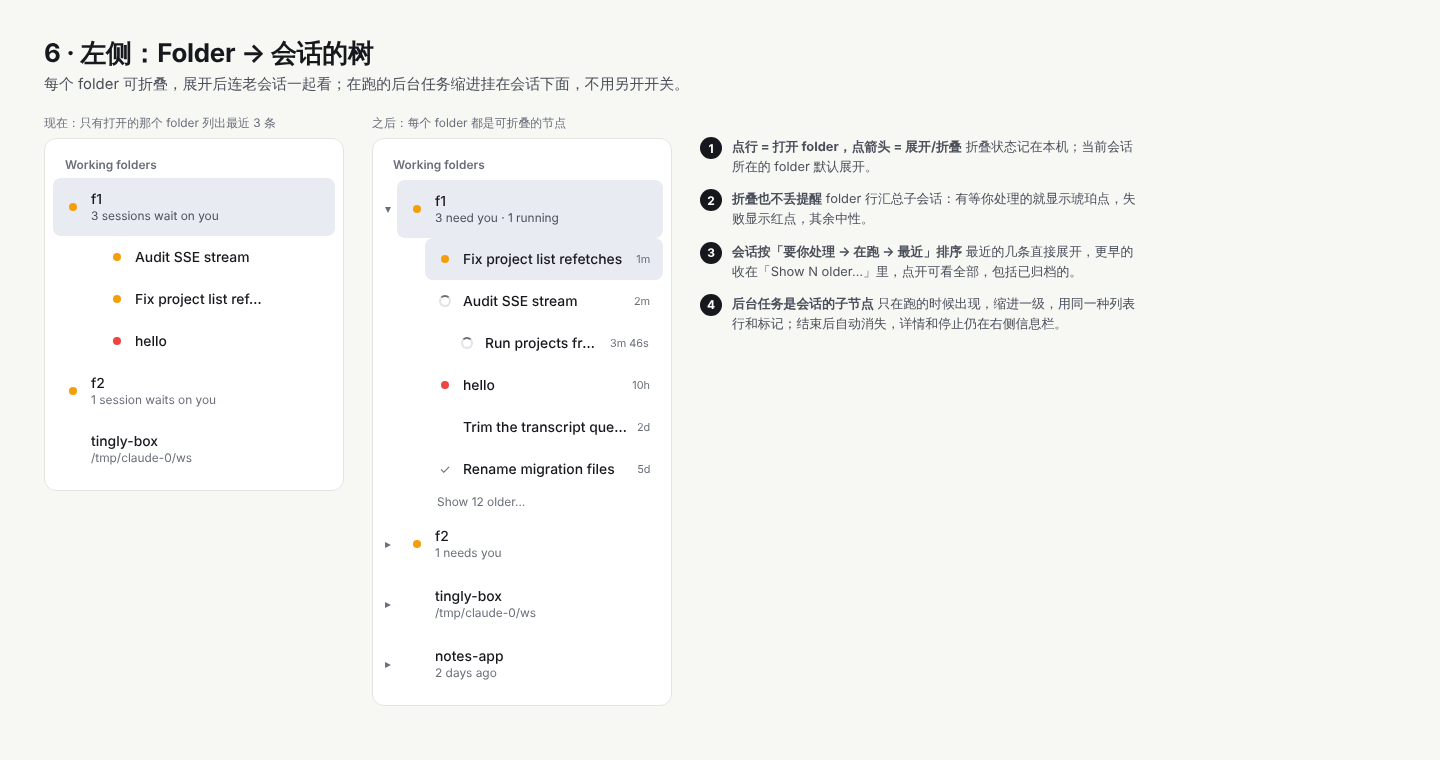
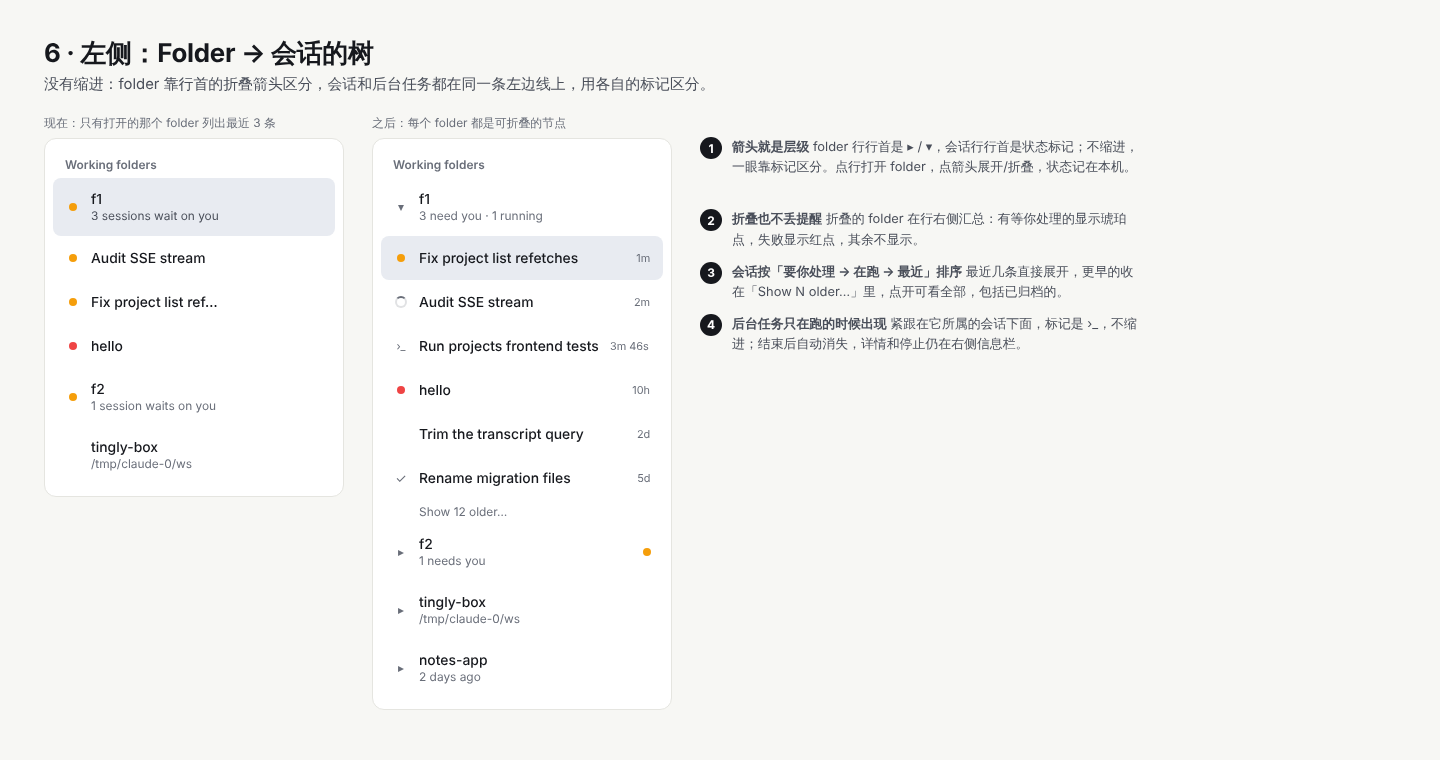
docs(design): folder tree without indentation
Claude-Session: https://claude.ai/code/session_01PUxgomMoBwJ8yJqx3ZrPaA

diff --git a/.design/projects-visual/G-FolderTree.dc.html b/.design/projects-visual/G-FolderTree.dc.html
@@ -14,7 +14,7 @@ body{margin:0;font-family:Inter,system-ui,sans-serif;color:#16181d;-webkit-font-
 </style>
 </helmet>
 <div style="position:relative;width:1440px;height:760px;box-sizing:border-box;background:#f7f7f4;overflow:hidden;padding:36px 44px;display:flex;flex-direction:column;gap:20px">
-<div><div style="font-size:26px;font-weight:700;letter-spacing:-0.3px">6 · 左侧：Folder → 会话的树</div><div style="font-size:15px;color:#4a4f5a;margin-top:4px">每个 folder 可折叠，展开后连老会话一起看；在跑的后台任务缩进挂在会话下面，不用另开开关。</div></div><div style="display:flex;gap:28px;align-items:flex-start;flex:1"><div><div style="font-size:12px;color:#696e79;margin-bottom:6px">现在：只有打开的那个 folder 列出最近 3 条</div><div style="width:300px;flex:none;background:#fff;border:1px solid #e5e5e0;border-radius:12px;padding:12px 8px;box-sizing:border-box"><div style="padding:6px 12px;font-size:12px;font-weight:600;color:#696e79">Working folders</div><div style="display:flex;align-items:center;gap:10px;min-height:46px;padding:6px 12px;border-radius:8px;background:#e8ebf1;"><div style="width:16px;display:flex;justify-content:center;flex:none"><span style="display:inline-block;width:8px;height:8px;border-radius:50%;background:#f59e0b;flex:none"></span></div><div style="flex:1;min-width:0"><div style="font-size:14px;font-weight:500;color:#16181d;white-space:nowrap;overflow:hidden;text-overflow:ellipsis">f1</div><div style="font-size:12px;color:#4a4f5a;white-space:nowrap;overflow:hidden;text-overflow:ellipsis">3 sessions wait on you</div></div><div style="font-size:11.5px;color:#696e79;flex:none"></div></div><div style="margin-left:44px"><div style="display:flex;align-items:center;gap:10px;min-height:30px;padding:6px 12px;border-radius:8px;"><div style="width:16px;display:flex;justify-content:center;flex:none"><span style="display:inline-block;width:8px;height:8px;border-radius:50%;background:#f59e0b;flex:none"></span></div><div style="flex:1;min-width:0"><div style="font-size:14px;font-weight:500;color:#16181d;white-space:nowrap;overflow:hidden;text-overflow:ellipsis">Audit SSE stream</div></div><div style="font-size:11.5px;color:#696e79;flex:none"></div></div></div><div style="margin-left:44px"><div style="display:flex;align-items:center;gap:10px;min-height:30px;padding:6px 12px;border-radius:8px;"><div style="width:16px;display:flex;justify-content:center;flex:none"><span style="display:inline-block;width:8px;height:8px;border-radius:50%;background:#f59e0b;flex:none"></span></div><div style="flex:1;min-width:0"><div style="font-size:14px;font-weight:500;color:#16181d;white-space:nowrap;overflow:hidden;text-overflow:ellipsis">Fix project list ref…</div></div><div style="font-size:11.5px;color:#696e79;flex:none"></div></div></div><div style="margin-left:44px"><div style="display:flex;align-items:center;gap:10px;min-height:30px;padding:6px 12px;border-radius:8px;"><div style="width:16px;display:flex;justify-content:center;flex:none"><span style="display:inline-block;width:8px;height:8px;border-radius:50%;background:#ef4444;flex:none"></span></div><div style="flex:1;min-width:0"><div style="font-size:14px;font-weight:500;color:#16181d;white-space:nowrap;overflow:hidden;text-overflow:ellipsis">hello</div></div><div style="font-size:11.5px;color:#696e79;flex:none"></div></div></div><div style="display:flex;align-items:center;gap:10px;min-height:46px;padding:6px 12px;border-radius:8px;"><div style="width:16px;display:flex;justify-content:center;flex:none"><span style="display:inline-block;width:8px;height:8px;border-radius:50%;background:#f59e0b;flex:none"></span></div><div style="flex:1;min-width:0"><div style="font-size:14px;font-weight:500;color:#16181d;white-space:nowrap;overflow:hidden;text-overflow:ellipsis">f2</div><div style="font-size:12px;color:#696e79;white-space:nowrap;overflow:hidden;text-overflow:ellipsis">1 session waits on you</div></div><div style="font-size:11.5px;color:#696e79;flex:none"></div></div><div style="display:flex;align-items:center;gap:10px;min-height:46px;padding:6px 12px;border-radius:8px;"><div style="width:16px;display:flex;justify-content:center;flex:none"></div><div style="flex:1;min-width:0"><div style="font-size:14px;font-weight:500;color:#16181d;white-space:nowrap;overflow:hidden;text-overflow:ellipsis">tingly-box</div><div style="font-size:12px;color:#696e79;white-space:nowrap;overflow:hidden;text-overflow:ellipsis">/tmp/claude-0/ws</div></div><div style="font-size:11.5px;color:#696e79;flex:none"></div></div></div></div><div><div style="font-size:12px;color:#696e79;margin-bottom:6px">之后：每个 folder 都是可折叠的节点</div><div style="width:300px;flex:none;background:#fff;border:1px solid #e5e5e0;border-radius:12px;padding:12px 8px;box-sizing:border-box"><div style="padding:6px 12px;font-size:12px;font-weight:600;color:#696e79">Working folders</div><div style="display:flex;align-items:center;gap:2px;margin-top:2px"><span style="display:inline-block;width:14px;text-align:center;font-size:12px;line-height:1;color:#696e79;flex:none">▾</span><div style="flex:1"><div style="display:flex;align-items:center;gap:10px;min-height:46px;padding:6px 12px;border-radius:8px;background:#e8ebf1;"><div style="width:16px;display:flex;justify-content:center;flex:none"><span style="display:inline-block;width:8px;height:8px;border-radius:50%;background:#f59e0b;flex:none"></span></div><div style="flex:1;min-width:0"><div style="font-size:14px;font-weight:500;color:#16181d;white-space:nowrap;overflow:hidden;text-overflow:ellipsis">f1</div><div style="font-size:12px;color:#4a4f5a;white-space:nowrap;overflow:hidden;text-overflow:ellipsis">3 need you · 1 running</div></div><div style="font-size:11.5px;color:#696e79;flex:none"></div></div></div></div><div style="margin-left:44px"><div style="display:flex;align-items:center;gap:10px;min-height:30px;padding:6px 12px;border-radius:8px;background:#e8ebf1;"><div style="width:16px;display:flex;justify-content:center;flex:none"><span style="display:inline-block;width:8px;height:8px;border-radius:50%;background:#f59e0b;flex:none"></span></div><div style="flex:1;min-width:0"><div style="font-size:14px;font-weight:500;color:#16181d;white-space:nowrap;overflow:hidden;text-overflow:ellipsis">Fix project list refetches</div></div><div style="font-size:11.5px;color:#696e79;flex:none">1m</div></div></div><div style="margin-left:44px"><div style="display:flex;align-items:center;gap:10px;min-height:30px;padding:6px 12px;border-radius:8px;"><div style="width:16px;display:flex;justify-content:center;flex:none"><span style="display:inline-block;width:12px;height:12px;border-radius:50%;border:2px solid #696e7933;border-top-color:#696e79;box-sizing:border-box;flex:none"></span></div><div style="flex:1;min-width:0"><div style="font-size:14px;font-weight:500;color:#16181d;white-space:nowrap;overflow:hidden;text-overflow:ellipsis">Audit SSE stream</div></div><div style="font-size:11.5px;color:#696e79;flex:none">2m</div></div></div><div style="margin-left:66px"><div style="display:flex;align-items:center;gap:10px;min-height:30px;padding:6px 12px;border-radius:8px;"><div style="width:16px;display:flex;justify-content:center;flex:none"><span style="display:inline-block;width:12px;height:12px;border-radius:50%;border:2px solid #696e7933;border-top-color:#696e79;box-sizing:border-box;flex:none"></span></div><div style="flex:1;min-width:0"><div style="font-size:14px;font-weight:500;color:#16181d;white-space:nowrap;overflow:hidden;text-overflow:ellipsis">Run projects frontend tests</div></div><div style="font-size:11.5px;color:#696e79;flex:none">3m 46s</div></div></div><div style="margin-left:44px"><div style="display:flex;align-items:center;gap:10px;min-height:30px;padding:6px 12px;border-radius:8px;"><div style="width:16px;display:flex;justify-content:center;flex:none"><span style="display:inline-block;width:8px;height:8px;border-radius:50%;background:#ef4444;flex:none"></span></div><div style="flex:1;min-width:0"><div style="font-size:14px;font-weight:500;color:#16181d;white-space:nowrap;overflow:hidden;text-overflow:ellipsis">hello</div></div><div style="font-size:11.5px;color:#696e79;flex:none">10h</div></div></div><div style="margin-left:44px"><div style="display:flex;align-items:center;gap:10px;min-height:30px;padding:6px 12px;border-radius:8px;"><div style="width:16px;display:flex;justify-content:center;flex:none"></div><div style="flex:1;min-width:0"><div style="font-size:14px;font-weight:500;color:#16181d;white-space:nowrap;overflow:hidden;text-overflow:ellipsis">Trim the transcript query</div></div><div style="font-size:11.5px;color:#696e79;flex:none">2d</div></div></div><div style="margin-left:44px"><div style="display:flex;align-items:center;gap:10px;min-height:30px;padding:6px 12px;border-radius:8px;"><div style="width:16px;display:flex;justify-content:center;flex:none"><span style="display:inline-block;width:15px;text-align:center;font-size:13px;line-height:1;color:#696e79;flex:none">✓</span></div><div style="flex:1;min-width:0"><div style="font-size:14px;font-weight:500;color:#16181d;white-space:nowrap;overflow:hidden;text-overflow:ellipsis">Rename migration files</div></div><div style="font-size:11.5px;color:#696e79;flex:none">5d</div></div></div><div style="margin-left:44px;padding:4px 12px;font-size:12px;color:#696e79">Show 12 older…</div><div style="display:flex;align-items:center;gap:2px;margin-top:2px"><span style="display:inline-block;width:14px;text-align:center;font-size:12px;line-height:1;color:#696e79;flex:none">▸</span><div style="flex:1"><div style="display:flex;align-items:center;gap:10px;min-height:46px;padding:6px 12px;border-radius:8px;"><div style="width:16px;display:flex;justify-content:center;flex:none"><span style="display:inline-block;width:8px;height:8px;border-radius:50%;background:#f59e0b;flex:none"></span></div><div style="flex:1;min-width:0"><div style="font-size:14px;font-weight:500;color:#16181d;white-space:nowrap;overflow:hidden;text-overflow:ellipsis">f2</div><div style="font-size:12px;color:#696e79;white-space:nowrap;overflow:hidden;text-overflow:ellipsis">1 needs you</div></div><div style="font-size:11.5px;color:#696e79;flex:none"></div></div></div></div><div style="display:flex;align-items:center;gap:2px;margin-top:2px"><span style="display:inline-block;width:14px;text-align:center;font-size:12px;line-height:1;color:#696e79;flex:none">▸</span><div style="flex:1"><div style="display:flex;align-items:center;gap:10px;min-height:46px;padding:6px 12px;border-radius:8px;"><div style="width:16px;display:flex;justify-content:center;flex:none"></div><div style="flex:1;min-width:0"><div style="font-size:14px;font-weight:500;color:#16181d;white-space:nowrap;overflow:hidden;text-overflow:ellipsis">tingly-box</div><div style="font-size:12px;color:#696e79;white-space:nowrap;overflow:hidden;text-overflow:ellipsis">/tmp/claude-0/ws</div></div><div style="font-size:11.5px;color:#696e79;flex:none"></div></div></div></div><div style="display:flex;align-items:center;gap:2px;margin-top:2px"><span style="display:inline-block;width:14px;text-align:center;font-size:12px;line-height:1;color:#696e79;flex:none">▸</span><div style="flex:1"><div style="display:flex;align-items:center;gap:10px;min-height:46px;padding:6px 12px;border-radius:8px;"><div style="width:16px;display:flex;justify-content:center;flex:none"></div><div style="flex:1;min-width:0"><div style="font-size:14px;font-weight:500;color:#16181d;white-space:nowrap;overflow:hidden;text-overflow:ellipsis">notes-app</div><div style="font-size:12px;color:#696e79;white-space:nowrap;overflow:hidden;text-overflow:ellipsis">2 days ago</div></div><div style="font-size:11.5px;color:#696e79;flex:none"></div></div></div></div></div></div><div style="flex:1;max-width:440px;padding-top:22px"><div style="display:flex;gap:10px"><div style="width:22px;height:22px;border-radius:50%;background:#16181d;color:#fff;font-size:12px;font-weight:700;display:flex;align-items:center;justify-content:center;flex:none">1</div><div><div style="font-size:13px;line-height:1.55;color:#4a4f5a"><b>点行 = 打开 folder，点箭头 = 展开/折叠</b> 折叠状态记在本机；当前会话所在的 folder 默认展开。</div></div></div><div style="height:12px"></div><div style="display:flex;gap:10px"><div style="width:22px;height:22px;border-radius:50%;background:#16181d;color:#fff;font-size:12px;font-weight:700;display:flex;align-items:center;justify-content:center;flex:none">2</div><div><div style="font-size:13px;line-height:1.55;color:#4a4f5a"><b>折叠也不丢提醒</b> folder 行汇总子会话：有等你处理的就显示琥珀点，失败显示红点，其余中性。</div></div></div><div style="height:12px"></div><div style="display:flex;gap:10px"><div style="width:22px;height:22px;border-radius:50%;background:#16181d;color:#fff;font-size:12px;font-weight:700;display:flex;align-items:center;justify-content:center;flex:none">3</div><div><div style="font-size:13px;line-height:1.55;color:#4a4f5a"><b>会话按「要你处理 → 在跑 → 最近」排序</b> 最近的几条直接展开，更早的收在「Show N older…」里，点开可看全部，包括已归档的。</div></div></div><div style="height:12px"></div><div style="display:flex;gap:10px"><div style="width:22px;height:22px;border-radius:50%;background:#16181d;color:#fff;font-size:12px;font-weight:700;display:flex;align-items:center;justify-content:center;flex:none">4</div><div><div style="font-size:13px;line-height:1.55;color:#4a4f5a"><b>后台任务是会话的子节点</b> 只在跑的时候出现，缩进一级，用同一种列表行和标记；结束后自动消失，详情和停止仍在右侧信息栏。</div></div></div></div></div>
+<div><div style="font-size:26px;font-weight:700;letter-spacing:-0.3px">6 · 左侧：Folder → 会话的树</div><div style="font-size:15px;color:#4a4f5a;margin-top:4px">没有缩进：folder 靠行首的折叠箭头区分，会话和后台任务都在同一条左边线上，用各自的标记区分。</div></div><div style="display:flex;gap:28px;align-items:flex-start;flex:1"><div><div style="font-size:12px;color:#696e79;margin-bottom:6px">现在：只有打开的那个 folder 列出最近 3 条</div><div style="width:300px;flex:none;background:#fff;border:1px solid #e5e5e0;border-radius:12px;padding:12px 8px;box-sizing:border-box"><div style="padding:6px 12px;font-size:12px;font-weight:600;color:#696e79">Working folders</div><div style="display:flex;align-items:center;gap:10px;min-height:46px;padding:6px 12px;border-radius:8px;background:#e8ebf1;"><div style="width:16px;display:flex;justify-content:center;flex:none"><span style="display:inline-block;width:8px;height:8px;border-radius:50%;background:#f59e0b;flex:none"></span></div><div style="flex:1;min-width:0"><div style="font-size:14px;font-weight:500;color:#16181d;white-space:nowrap;overflow:hidden;text-overflow:ellipsis">f1</div><div style="font-size:12px;color:#4a4f5a;white-space:nowrap;overflow:hidden;text-overflow:ellipsis">3 sessions wait on you</div></div><div style="font-size:11.5px;color:#696e79;flex:none"></div></div><div style="display:flex;align-items:center;gap:10px;min-height:32px;padding:6px 12px;border-radius:8px;"><div style="width:16px;display:flex;justify-content:center;flex:none"><span style="display:inline-block;width:8px;height:8px;border-radius:50%;background:#f59e0b;flex:none"></span></div><div style="flex:1;min-width:0"><div style="font-size:14px;font-weight:500;color:#16181d;white-space:nowrap;overflow:hidden;text-overflow:ellipsis">Audit SSE stream</div></div><div style="font-size:11.5px;color:#696e79;flex:none"></div></div><div style="display:flex;align-items:center;gap:10px;min-height:32px;padding:6px 12px;border-radius:8px;"><div style="width:16px;display:flex;justify-content:center;flex:none"><span style="display:inline-block;width:8px;height:8px;border-radius:50%;background:#f59e0b;flex:none"></span></div><div style="flex:1;min-width:0"><div style="font-size:14px;font-weight:500;color:#16181d;white-space:nowrap;overflow:hidden;text-overflow:ellipsis">Fix project list ref…</div></div><div style="font-size:11.5px;color:#696e79;flex:none"></div></div><div style="display:flex;align-items:center;gap:10px;min-height:32px;padding:6px 12px;border-radius:8px;"><div style="width:16px;display:flex;justify-content:center;flex:none"><span style="display:inline-block;width:8px;height:8px;border-radius:50%;background:#ef4444;flex:none"></span></div><div style="flex:1;min-width:0"><div style="font-size:14px;font-weight:500;color:#16181d;white-space:nowrap;overflow:hidden;text-overflow:ellipsis">hello</div></div><div style="font-size:11.5px;color:#696e79;flex:none"></div></div><div style="display:flex;align-items:center;gap:10px;min-height:46px;padding:6px 12px;border-radius:8px;"><div style="width:16px;display:flex;justify-content:center;flex:none"><span style="display:inline-block;width:8px;height:8px;border-radius:50%;background:#f59e0b;flex:none"></span></div><div style="flex:1;min-width:0"><div style="font-size:14px;font-weight:500;color:#16181d;white-space:nowrap;overflow:hidden;text-overflow:ellipsis">f2</div><div style="font-size:12px;color:#696e79;white-space:nowrap;overflow:hidden;text-overflow:ellipsis">1 session waits on you</div></div><div style="font-size:11.5px;color:#696e79;flex:none"></div></div><div style="display:flex;align-items:center;gap:10px;min-height:46px;padding:6px 12px;border-radius:8px;"><div style="width:16px;display:flex;justify-content:center;flex:none"></div><div style="flex:1;min-width:0"><div style="font-size:14px;font-weight:500;color:#16181d;white-space:nowrap;overflow:hidden;text-overflow:ellipsis">tingly-box</div><div style="font-size:12px;color:#696e79;white-space:nowrap;overflow:hidden;text-overflow:ellipsis">/tmp/claude-0/ws</div></div><div style="font-size:11.5px;color:#696e79;flex:none"></div></div></div></div><div><div style="font-size:12px;color:#696e79;margin-bottom:6px">之后：每个 folder 都是可折叠的节点</div><div style="width:300px;flex:none;background:#fff;border:1px solid #e5e5e0;border-radius:12px;padding:12px 8px;box-sizing:border-box"><div style="padding:6px 12px;font-size:12px;font-weight:600;color:#696e79">Working folders</div><div style="display:flex;align-items:center;gap:10px;min-height:46px;padding:6px 12px;border-radius:8px;"><div style="width:16px;display:flex;justify-content:center;flex:none"><span style="display:inline-block;width:14px;text-align:center;font-size:12px;line-height:1;color:#696e79;flex:none">▾</span></div><div style="flex:1;min-width:0"><div style="font-size:14px;font-weight:500;color:#16181d;white-space:nowrap;overflow:hidden;text-overflow:ellipsis">f1</div><div style="font-size:12px;color:#696e79;white-space:nowrap;overflow:hidden;text-overflow:ellipsis">3 need you · 1 running</div></div><div style="font-size:11.5px;color:#696e79;flex:none"></div></div><div style="display:flex;align-items:center;gap:10px;min-height:32px;padding:6px 12px;border-radius:8px;background:#e8ebf1;"><div style="width:16px;display:flex;justify-content:center;flex:none"><span style="display:inline-block;width:8px;height:8px;border-radius:50%;background:#f59e0b;flex:none"></span></div><div style="flex:1;min-width:0"><div style="font-size:14px;font-weight:500;color:#16181d;white-space:nowrap;overflow:hidden;text-overflow:ellipsis">Fix project list refetches</div></div><div style="font-size:11.5px;color:#696e79;flex:none">1m</div></div><div style="display:flex;align-items:center;gap:10px;min-height:32px;padding:6px 12px;border-radius:8px;"><div style="width:16px;display:flex;justify-content:center;flex:none"><span style="display:inline-block;width:12px;height:12px;border-radius:50%;border:2px solid #696e7933;border-top-color:#696e79;box-sizing:border-box;flex:none"></span></div><div style="flex:1;min-width:0"><div style="font-size:14px;font-weight:500;color:#16181d;white-space:nowrap;overflow:hidden;text-overflow:ellipsis">Audit SSE stream</div></div><div style="font-size:11.5px;color:#696e79;flex:none">2m</div></div><div style="display:flex;align-items:center;gap:10px;min-height:32px;padding:6px 12px;border-radius:8px;"><div style="width:16px;display:flex;justify-content:center;flex:none"><span style="display:inline-block;width:13px;text-align:center;font-size:11px;line-height:1;color:#696e79;flex:none">›_</span></div><div style="flex:1;min-width:0"><div style="font-size:14px;font-weight:500;color:#16181d;white-space:nowrap;overflow:hidden;text-overflow:ellipsis">Run projects frontend tests</div></div><div style="font-size:11.5px;color:#696e79;flex:none">3m 46s</div></div><div style="display:flex;align-items:center;gap:10px;min-height:32px;padding:6px 12px;border-radius:8px;"><div style="width:16px;display:flex;justify-content:center;flex:none"><span style="display:inline-block;width:8px;height:8px;border-radius:50%;background:#ef4444;flex:none"></span></div><div style="flex:1;min-width:0"><div style="font-size:14px;font-weight:500;color:#16181d;white-space:nowrap;overflow:hidden;text-overflow:ellipsis">hello</div></div><div style="font-size:11.5px;color:#696e79;flex:none">10h</div></div><div style="display:flex;align-items:center;gap:10px;min-height:32px;padding:6px 12px;border-radius:8px;"><div style="width:16px;display:flex;justify-content:center;flex:none"></div><div style="flex:1;min-width:0"><div style="font-size:14px;font-weight:500;color:#16181d;white-space:nowrap;overflow:hidden;text-overflow:ellipsis">Trim the transcript query</div></div><div style="font-size:11.5px;color:#696e79;flex:none">2d</div></div><div style="display:flex;align-items:center;gap:10px;min-height:32px;padding:6px 12px;border-radius:8px;"><div style="width:16px;display:flex;justify-content:center;flex:none"><span style="display:inline-block;width:15px;text-align:center;font-size:13px;line-height:1;color:#696e79;flex:none">✓</span></div><div style="flex:1;min-width:0"><div style="font-size:14px;font-weight:500;color:#16181d;white-space:nowrap;overflow:hidden;text-overflow:ellipsis">Rename migration files</div></div><div style="font-size:11.5px;color:#696e79;flex:none">5d</div></div><div style="padding:4px 12px 4px 38px;font-size:12px;color:#696e79">Show 12 older…</div><div style="display:flex;align-items:center;gap:10px;min-height:46px;padding:6px 12px;border-radius:8px;"><div style="width:16px;display:flex;justify-content:center;flex:none"><span style="display:inline-block;width:14px;text-align:center;font-size:12px;line-height:1;color:#696e79;flex:none">▸</span></div><div style="flex:1;min-width:0"><div style="font-size:14px;font-weight:500;color:#16181d;white-space:nowrap;overflow:hidden;text-overflow:ellipsis">f2</div><div style="font-size:12px;color:#696e79;white-space:nowrap;overflow:hidden;text-overflow:ellipsis">1 needs you</div></div><div style="font-size:11.5px;color:#696e79;flex:none"><span style="display:inline-block;width:8px;height:8px;border-radius:50%;background:#f59e0b;flex:none"></span></div></div><div style="display:flex;align-items:center;gap:10px;min-height:46px;padding:6px 12px;border-radius:8px;"><div style="width:16px;display:flex;justify-content:center;flex:none"><span style="display:inline-block;width:14px;text-align:center;font-size:12px;line-height:1;color:#696e79;flex:none">▸</span></div><div style="flex:1;min-width:0"><div style="font-size:14px;font-weight:500;color:#16181d;white-space:nowrap;overflow:hidden;text-overflow:ellipsis">tingly-box</div><div style="font-size:12px;color:#696e79;white-space:nowrap;overflow:hidden;text-overflow:ellipsis">/tmp/claude-0/ws</div></div><div style="font-size:11.5px;color:#696e79;flex:none"></div></div><div style="display:flex;align-items:center;gap:10px;min-height:46px;padding:6px 12px;border-radius:8px;"><div style="width:16px;display:flex;justify-content:center;flex:none"><span style="display:inline-block;width:14px;text-align:center;font-size:12px;line-height:1;color:#696e79;flex:none">▸</span></div><div style="flex:1;min-width:0"><div style="font-size:14px;font-weight:500;color:#16181d;white-space:nowrap;overflow:hidden;text-overflow:ellipsis">notes-app</div><div style="font-size:12px;color:#696e79;white-space:nowrap;overflow:hidden;text-overflow:ellipsis">2 days ago</div></div><div style="font-size:11.5px;color:#696e79;flex:none"></div></div></div></div><div style="flex:1;max-width:440px;padding-top:22px"><div style="display:flex;gap:10px"><div style="width:22px;height:22px;border-radius:50%;background:#16181d;color:#fff;font-size:12px;font-weight:700;display:flex;align-items:center;justify-content:center;flex:none">1</div><div><div style="font-size:13px;line-height:1.55;color:#4a4f5a"><b>箭头就是层级</b> folder 行行首是 ▸ / ▾，会话行行首是状态标记；不缩进，一眼靠标记区分。点行打开 folder，点箭头展开/折叠，状态记在本机。</div></div></div><div style="height:12px"></div><div style="display:flex;gap:10px"><div style="width:22px;height:22px;border-radius:50%;background:#16181d;color:#fff;font-size:12px;font-weight:700;display:flex;align-items:center;justify-content:center;flex:none">2</div><div><div style="font-size:13px;line-height:1.55;color:#4a4f5a"><b>折叠也不丢提醒</b> 折叠的 folder 在行右侧汇总：有等你处理的显示琥珀点，失败显示红点，其余不显示。</div></div></div><div style="height:12px"></div><div style="display:flex;gap:10px"><div style="width:22px;height:22px;border-radius:50%;background:#16181d;color:#fff;font-size:12px;font-weight:700;display:flex;align-items:center;justify-content:center;flex:none">3</div><div><div style="font-size:13px;line-height:1.55;color:#4a4f5a"><b>会话按「要你处理 → 在跑 → 最近」排序</b> 最近几条直接展开，更早的收在「Show N older…」里，点开可看全部，包括已归档的。</div></div></div><div style="height:12px"></div><div style="display:flex;gap:10px"><div style="width:22px;height:22px;border-radius:50%;background:#16181d;color:#fff;font-size:12px;font-weight:700;display:flex;align-items:center;justify-content:center;flex:none">4</div><div><div style="font-size:13px;line-height:1.55;color:#4a4f5a"><b>后台任务只在跑的时候出现</b> 紧跟在它所属的会话下面，标记是 ›_，不缩进；结束后自动消失，详情和停止仍在右侧信息栏。</div></div></div></div></div>
 </div>
 </x-dc>
 <script type="text/x-dc" data-dc-script data-props='{"$preview":{"width":1440,"height":760}}'>

diff --git a/.design/projects-visual.md b/.design/projects-visual.md
@@ -54,13 +54,13 @@ adds no colours of its own: only "needs you" is amber, a failed task is red.
 
 ## Folder tree in the left nav (board G)
 
-Working folders are a tree: folder, then its sessions, then the background
-tasks a running session has. Each folder folds (state remembered per browser,
+Working folders are a tree without indentation: a folder row starts with its
+fold arrow, session rows start with their state mark, and the background
+tasks a running session has follow it on the same left edge (mark `›_`). Each folder folds (state remembered per browser,
 the open session's folder starts open) and a folded folder still rolls up what
 needs the user (amber), failed (red) or runs. Sessions sort needs-you, running,
 latest; the latest few show, the rest sit behind "Show N older" and include
-archived ones. Background tasks appear only while they run, as a child row in
-the same `ListRow`. No tree/flat toggle: the tree is the only layout.
+archived ones. Background tasks appear only while they run, in the same `ListRow`. No tree/flat toggle: the tree is the only layout.
 
 ## Rollout (one PR per step, each with screenshots)
 
